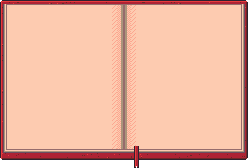
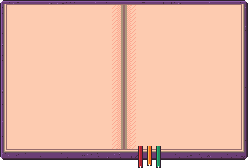
Draw the book cover in a cartoon spellbook style
Purple leather with iron corner plates, a gem-set medallion around a
small gold skyline, a visible page block and three ribbon bookmarks.
Book titles use Jacquard 12, a pixel blackletter font.

Changed region(s): [[0.0, 0.0, 1.0, 1.0]]

diff --git a/scripts/art/ui.ts b/scripts/art/ui.ts
@@ -316,8 +316,8 @@ function cursor(rows: readonly string[]): Canvas {
   return c;
 }
 
-/** Red leather for the book, darkest first. */
-const LEATHER = ["45293f", "6e2727", "ae2334", "e83b3b"] as const;
+/** Purple leather for the book, darkest first. */
+const LEATHER = ["45293f", "6b3e75", "905ea9", "a884f3"] as const;
 
 /** Book sizes, in art pixels: the open spread, and one board (the closed cover). */
 const BOOK_W = 248;
@@ -330,98 +330,169 @@ function leather(c: Canvas, x0: number, y0: number, w: number, h: number, seed: 
   for (let y = y0; y < y0 + h; y++)
     for (let x = x0; x < x0 + w; x++) {
       const { d, side } = edge(x - x0, y - y0, w, h);
-      if (cornerCut(x - x0, y - y0, w, h, 2)) continue;
-      let color: Hex = LEATHER[2];
+      if (cornerCut(x - x0, y - y0, w, h, 3)) continue;
+      let color: Hex = LEATHER[1];
       if (d === 0) color = INK;
-      else if (d === 1) color = lit(side) ? LEATHER[3] : LEATHER[1];
-      else if (noise(seed, x, y) < 0.025) color = LEATHER[1];
-      else if (noise(seed, "hi", x, y) < 0.01) color = LEATHER[3];
+      else if (d === 1) color = lit(side) ? LEATHER[2] : LEATHER[0];
+      else if (noise(seed, x, y) < 0.03) color = LEATHER[0];
+      else if (noise(seed, "hi", x, y) < 0.012) color = LEATHER[2];
       c.set(x, y, color);
     }
 }
 
-/** A gold cube on a 2:1 diamond, like a tiny building: the city's emblem. */
-function emblem(c: Canvas, cx: number, top: number) {
-  const w = 24;
-  const wall = 10;
+/**
+ * A small isometric building: a 2:1 diamond roof over two walls, with rows of
+ * lit windows. `top` is the roof's top pixel.
+ */
+function tower(c: Canvas, cx: number, top: number, w: number, wall: number) {
+  const half = w / 2;
   for (let x = 0; x < w; x++) {
-    const t = Math.ceil((x < w / 2 ? w / 2 - 1 - x : x - w / 2) / 2);
-    for (let y = t; y < w / 2 - t + wall; y++) {
-      const roof = y < w / 2 - t;
-      const left = x < w / 2;
-      const outline = y === t || y === w / 2 - t + wall - 1 || x === 0 || x === w - 1;
-      c.set(cx - w / 2 + x, top + y, outline ? INK : roof ? GOLD[3] : left ? GOLD[2] : GOLD[1]);
+    const t = Math.ceil((x < half ? half - 1 - x : x - half) / 2);
+    for (let y = t; y < half - t + wall; y++) {
+      const roof = y < half - t;
+      const left = x < half;
+      const outline = y === t || y === half - t + wall - 1 || x === 0 || x === w - 1;
+      c.set(cx - half + x, top + y, outline ? INK : roof ? GOLD[3] : left ? GOLD[2] : GOLD[1]);
     }
   }
-  // Two lit windows on each wall.
-  for (const [x, y] of [
-    [6, 14],
-    [9, 15],
-    [15, 15],
-    [18, 14],
-  ] as const)
-    c.rect(cx - w / 2 + x, top + y, 1, 2, x < w / 2 ? GOLD[0] : "fbb954");
+  // Windows: one column on each wall, a row every 4 pixels, following the slope.
+  for (let row = half + 2; row < half + wall - 4; row += 4)
+    for (const x of [Math.floor(half / 2), w - 1 - Math.floor(half / 2)]) {
+      const t = Math.ceil((x < half ? half - 1 - x : x - half) / 2);
+      c.rect(cx - half + x, top + row - t + 1, 1, 2, x < half ? GOLD[0] : "fbb954");
+    }
 }
 
+/** Gem colors set in the medallion's ring, each dark, base, light. */
+const GEMS: [Hex, Hex, Hex][] = [
+  ["ae2334", "e83b3b", "f68181"],
+  ["0b8a8f", "30e1b9", "8ff8e2"],
+  ["4d65b4", "4d9be6", "8fd3ff"],
+  ["f79617", "f9c22b", "fbff86"],
+  ["239063", "1ebc73", "91db69"],
+  ["c32454", "f04f78", "ed8099"],
+  ["9e4539", "fb6b1d", "fbb954"],
+  ["7f708a", "c7dcd0", "ffffff"],
+];
+
 /**
- * The closed book: a leather board with gold corners, a gold frame, a title
- * plate (the title itself is HTML) and the emblem. The spine is on the left.
+ * The cover's round medallion: a gold rim, a ring set with gems, and a small
+ * skyline of gold towers in the middle, the city's emblem.
+ */
+function medallion(c: Canvas, cx: number, cy: number) {
+  const R = 40;
+  for (let y = cy - R; y <= cy + R; y++)
+    for (let x = cx - R; x <= cx + R; x++) {
+      const dx = x + 0.5 - cx;
+      const dy = y + 0.5 - cy;
+      const d = Math.hypot(dx, dy);
+      if (d > R) continue;
+      const upperLeft = dx + dy < 0;
+      let color: Hex;
+      if (d > R - 1.2) color = INK;
+      else if (d > R - 3.6) color = upperLeft ? GOLD[3] : GOLD[1];
+      else if (d > R - 4.6) color = INK;
+      else if (d > 25.4) color = upperLeft ? LEATHER[2] : (x + y) % 2 ? LEATHER[2] : LEATHER[1];
+      else if (d > 24.4) color = INK;
+      else if (d > 22.6) color = upperLeft ? GOLD[2] : GOLD[1];
+      else color = d > 21.6 ? LEATHER[0] : INK;
+      c.set(x, y, color);
+    }
+  // Gems around the ring, each a small diamond with a glint.
+  GEMS.forEach(([dark, base, light], i) => {
+    const a = (i / GEMS.length) * Math.PI * 2 - Math.PI / 2;
+    const gx = Math.round(cx - 0.5 + Math.cos(a) * 30.5);
+    const gy = Math.round(cy - 0.5 + Math.sin(a) * 30.5);
+    for (let j = -4; j <= 4; j++)
+      for (let i2 = -4; i2 <= 4; i2++) {
+        const m = Math.abs(i2) + Math.abs(j);
+        if (m > 4) continue;
+        const color = m === 4 ? INK : i2 + j < 0 ? light : i2 + j > 1 ? dark : base;
+        c.set(gx + i2, gy + j, color);
+      }
+    c.set(gx - 1, gy - 1, "ffffff");
+  });
+  // The skyline: a tall tower behind two short ones.
+  tower(c, cx, cy - 19, 14, 20);
+  tower(c, cx - 10, cy - 3, 12, 10);
+  tower(c, cx + 10, cy - 1, 12, 8);
+}
+
+/** An iron corner plate: a quarter disc with rivets, mirrored to any corner. */
+function cornerPlate(c: Canvas, x0: number, y0: number, fx: 1 | -1, fy: 1 | -1) {
+  const R = 22;
+  for (let j = 0; j < R; j++)
+    for (let i = 0; i < R; i++) {
+      const d = Math.hypot(i + 0.5, j + 0.5);
+      if (d > R) continue;
+      let color: Hex = IRON[2];
+      if (d > R - 1.2 || i === 0 || j === 0) color = INK;
+      else if (d > R - 3) color = IRON[1];
+      else if (i === 1 || j === 1) color = IRON[3];
+      c.set(x0 + fx * i, y0 + fy * j, color);
+    }
+  for (const [i, j] of [
+    [5, 5],
+    [14, 4],
+    [4, 14],
+  ] as const) {
+    c.set(x0 + fx * i, y0 + fy * j, INK);
+    c.set(x0 + fx * (i + 1), y0 + fy * j, IRON[3]);
+    c.set(x0 + fx * i, y0 + fy * (j + 1), IRON[1]);
+  }
+}
+
+/** Board size on the cover; the rest shows the edges of the pages. */
+const FRONT_W = BOARD_W - 8;
+const FRONT_H = BOARD_H - 8;
+
+/**
+ * The closed book, cartoon style: a purple board with iron corners and a gem
+ * medallion, over a thick block of pages and the back board. The title and
+ * subtitle are HTML. The spine is on the left.
  */
 function bookCover(): Canvas {
   const c = new Canvas(BOARD_W, BOARD_H);
-  leather(c, 0, 0, BOARD_W, BOARD_H, "cover");
-  // Spine: darker leather with two gold bands.
-  for (let y = 2; y < BOARD_H - 2; y++)
-    for (let x = 1; x < 6; x++) {
-      const band = (y >= 22 && y <= 24) || (y >= BOARD_H - 25 && y <= BOARD_H - 23);
-      c.set(x, y, band ? (y % 2 ? GOLD[2] : GOLD[1]) : x === 5 ? LEATHER[0] : LEATHER[1]);
+  // The back board, and the block of pages between it and the front board.
+  leather(c, 3, 3, BOARD_W - 3, BOARD_H - 3, "back");
+  for (let y = 4; y < BOARD_H - 3; y++)
+    for (let x = 4; x < BOARD_W - 3; x++) {
+      const right = x >= FRONT_W;
+      const line = right ? (x - FRONT_W) % 2 === 1 : (y - FRONT_H) % 2 === 1;
+      const rim = x === BOARD_W - 4 || y === BOARD_H - 4;
+      c.set(x, y, rim ? PAPER[1] : line ? PAPER[2] : PAPER[4]);
     }
-  // Gold frame line.
-  for (let x = 12; x < BOARD_W - 8; x++) {
-    c.set(x, 8, GOLD[2]);
-    c.set(x, BOARD_H - 9, GOLD[1]);
-  }
-  for (let y = 8; y < BOARD_H - 8; y++) {
-    c.set(12, y, GOLD[2]);
-    c.set(BOARD_W - 9, y, GOLD[1]);
-  }
-  // Gold corner protectors on the open side.
-  for (let j = 0; j < 12; j++)
-    for (let i = 0; i < 12 - j; i++) {
-      const rim = i === 11 - j || j === 0 || i === 0;
-      const color = rim ? INK : i + j < 5 ? GOLD[3] : GOLD[2];
-      c.set(BOARD_W - 1 - i, j, j === 0 || i === 0 ? INK : color);
-      c.set(BOARD_W - 1 - i, BOARD_H - 1 - j, j === 0 || i === 0 ? INK : rim ? INK : GOLD[1]);
+  leather(c, 0, 0, FRONT_W, FRONT_H, "cover");
+  // Spine: a darker strip with raised bands.
+  for (let y = 3; y < FRONT_H - 3; y++)
+    for (let x = 1; x < 8; x++) {
+      const band = [18, 52, 96, 130].some((b) => y >= b && y < b + 5);
+      let color: Hex = x === 7 ? INK : LEATHER[0];
+      if (band && x < 7) color = y % 5 === 0 || x === 1 ? LEATHER[2] : LEATHER[1];
+      c.set(x, y, color);
     }
-  // Title plate: parchment in a gold frame.
-  const px = 20;
-  const py = 38;
-  const pw = BOARD_W - 36;
-  const ph = 40;
-  for (let y = py; y < py + ph; y++)
-    for (let x = px; x < px + pw; x++) {
-      const { d, side } = edge(x - px, y - py, pw, ph);
-      if (cornerCut(x - px, y - py, pw, ph, 1)) continue;
-      c.set(
-        x,
-        y,
-        d === 0 ? INK : d === 1 ? (lit(side) ? GOLD[3] : GOLD[1]) : d === 2 ? GOLD[0] : PAPER[4],
-      );
-    }
-  emblem(c, BOARD_W / 2 + 2, 96);
-  // Clasp: a strap with a gold buckle on the open edge.
-  for (let y = 74; y < 90; y++)
-    for (let x = BOARD_W - 12; x < BOARD_W; x++) {
-      const rim = y === 74 || y === 89 || x === BOARD_W - 12;
-      const buckle = x >= BOARD_W - 9 && x <= BOARD_W - 4 && y >= 77 && y <= 86;
-      c.set(
-        x,
-        y,
-        rim ? INK : buckle ? (y === 77 || x === BOARD_W - 9 ? GOLD[3] : GOLD[2]) : LEATHER[1],
-      );
-    }
+  // A few scuffs on the leather.
+  for (const [x, y, n] of [
+    [86, 132, 6],
+    [90, 130, 5],
+    [22, 118, 4],
+    [96, 22, 4],
+  ] as const)
+    for (let k = 0; k < n; k++) c.set(x + k, y - Math.floor(k / 2), LEATHER[2]);
+  cornerPlate(c, 0, 0, 1, 1);
+  cornerPlate(c, FRONT_W - 1, 0, -1, 1);
+  cornerPlate(c, 0, FRONT_H - 1, 1, -1);
+  cornerPlate(c, FRONT_W - 1, FRONT_H - 1, -1, -1);
+  medallion(c, Math.round(FRONT_W / 2) + 4, 82);
   return c;
 }
+
+/** Ribbon colors, dark and light. */
+const RIBBONS: [Hex, Hex][] = [
+  [CLOTH[1], CLOTH[2]],
+  ["fb6b1d", "fbb954"],
+  ["239063", "1ebc73"],
+];
 
 /**
  * The open book: both boards, a stack of page edges, two pages that dip into
@@ -450,14 +521,17 @@ function bookOpen(): Canvas {
       if (x === 6 || x === BOOK_W - 7 || y === 4 || y === 149) color = PAPER[1];
       c.set(x, y, color);
     }
-  // Ribbon bookmark hanging from the bottom of the right page.
-  for (let y = 146; y < BOOK_H; y++)
-    for (let x = spine + 10; x < spine + 15; x++) {
-      const notch = y >= BOOK_H - 2 && x === spine + 12;
-      if (notch) continue;
-      const rim = x === spine + 10 || x === spine + 14 || y === BOOK_H - 1;
-      c.set(x, y, rim ? INK : x === spine + 11 ? CLOTH[2] : CLOTH[1]);
-    }
+  // Three ribbon bookmarks hanging below the right page.
+  RIBBONS.forEach(([dark, light], i) => {
+    const x0 = spine + 14 + i * 9;
+    const end = BOOK_H - 1 - (i % 2) * 2;
+    for (let y = 146; y <= end; y++)
+      for (let x = x0; x < x0 + 5; x++) {
+        if (y >= end - 1 && x === x0 + 2) continue;
+        const rim = x === x0 || x === x0 + 4 || y === end;
+        c.set(x, y, rim ? INK : x === x0 + 1 ? light : dark);
+      }
+  });
   return c;
 }
 

diff --git a/src/app/ui.css b/src/app/ui.css
@@ -291,7 +291,8 @@
 }
 
 .book-page h1 {
-  font-size: 2em;
+  font-family: var(--font-blackletter), var(--font-pixel), serif;
+  font-size: 2.6em;
   color: #ae2334;
 }
 
@@ -347,8 +348,8 @@
   display: flex;
   flex-direction: column;
   align-items: center;
-  padding-top: calc(44 * var(--px));
-  padding-left: calc(4 * var(--px));
+  /* Center on the front board, which leaves 8 art pixels of pages below and right. */
+  padding: calc(14 * var(--px)) calc(8 * var(--px)) calc(22 * var(--px)) calc(4 * var(--px));
   background-image: url("/generated/ui/book-cover.png");
 }
 
@@ -357,16 +358,24 @@
   transform: rotateY(180deg);
 }
 
+.book-title,
+.book-subtitle {
+  color: var(--gold);
+  text-shadow:
+    var(--px) var(--px) 0 var(--ink),
+    calc(-1 * var(--px)) 0 0 var(--ink),
+    0 calc(-1 * var(--px)) 0 var(--ink);
+}
+
 .book-title {
-  font-size: calc(var(--px) * 11);
+  font-family: var(--font-blackletter), var(--font-pixel), serif;
+  font-size: calc(var(--px) * 20);
   line-height: 1;
-  color: #ae2334;
 }
 
 .book-subtitle {
-  margin-top: calc(4 * var(--px));
-  font-size: calc(var(--px) * 5.5);
-  color: var(--paper-ink);
+  margin-top: auto;
+  font-size: calc(var(--px) * 7);
 }
 
 .book-hint {

diff --git a/src/app/layout.tsx b/src/app/layout.tsx
@@ -1,11 +1,18 @@
 import type { Metadata } from "next";
-import { Pixelify_Sans } from "next/font/google";
+import { Jacquard_12, Pixelify_Sans } from "next/font/google";
 import type { ReactNode } from "react";
 import "./globals.css";
 import "./ui.css";
 
 /** The interface font (ART_DIRECTION.md §16); SIL Open Font License. */
 const pixel = Pixelify_Sans({ subsets: ["latin"], variable: "--font-pixel", display: "swap" });
+/** Pixel blackletter for book titles; SIL Open Font License. */
+const blackletter = Jacquard_12({
+  subsets: ["latin"],
+  weight: "400",
+  variable: "--font-blackletter",
+  display: "swap",
+});
 
 export const metadata: Metadata = {
   title: "CommitCity",
@@ -14,7 +21,7 @@ export const metadata: Metadata = {
 
 export default function RootLayout({ children }: { children: ReactNode }) {
   return (
-    <html lang="en" className={pixel.variable}>
+    <html lang="en" className={`${pixel.variable} ${blackletter.variable}`}>
       <body>{children}</body>
     </html>
   );

diff --git a/docs/ART_DIRECTION.md b/docs/ART_DIRECTION.md
@@ -330,7 +330,7 @@ Menus, panels, buttons and cursors share the city's palette and hard pixels, in 
 | Nine-slice | Panels: 24 × 24, slice 8. Buttons and text field: 18 × 18, slice 6. Banner: 48 × 20, slice 4 14 8 14. Edges must look right when repeated or stretched along their length. |
 | Buttons | Three images: idle, hover (one ramp step lighter) and pressed (2 px lower, no lip). |
 | Cursors | An iron gauntlet in three-quarter view, 22 × 22 drawn, written at 2x (44 × 44), since browsers show cursor images at their CSS size. Pointer hotspot at the fingertip. |
-| Font | [Pixelify Sans](https://fonts.google.com/specimen/Pixelify+Sans) (SIL Open Font License), loaded with `next/font`. |
+| Font | [Pixelify Sans](https://fonts.google.com/specimen/Pixelify+Sans) (SIL Open Font License), loaded with `next/font`. Book titles use [Jacquard 12](https://fonts.google.com/specimen/Jacquard+12), a pixel blackletter under the same license. |
 | Accessibility | Pieces are styles on real `<button>`, `<input>` and `<a>` elements, so keyboard and screen readers keep working. Every image has a CSS fallback cursor. |
 
 `/dev/ui` shows every piece. The CSS lives in `src/app/ui.css`; a page opts in with the `ui` class.
